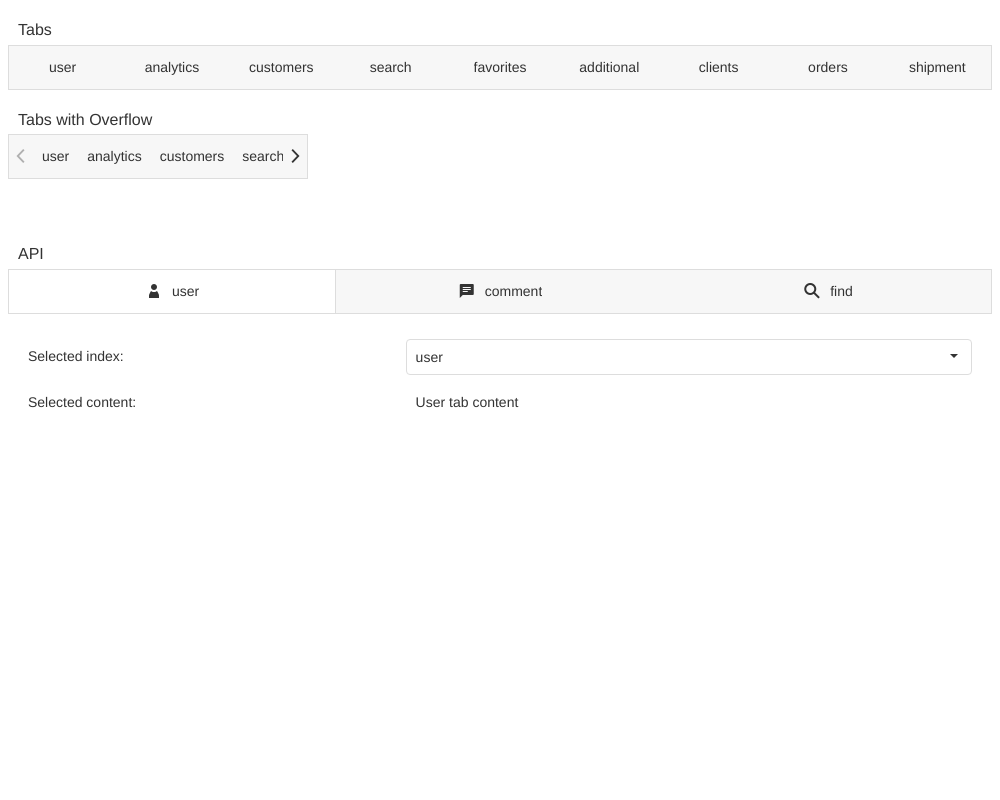
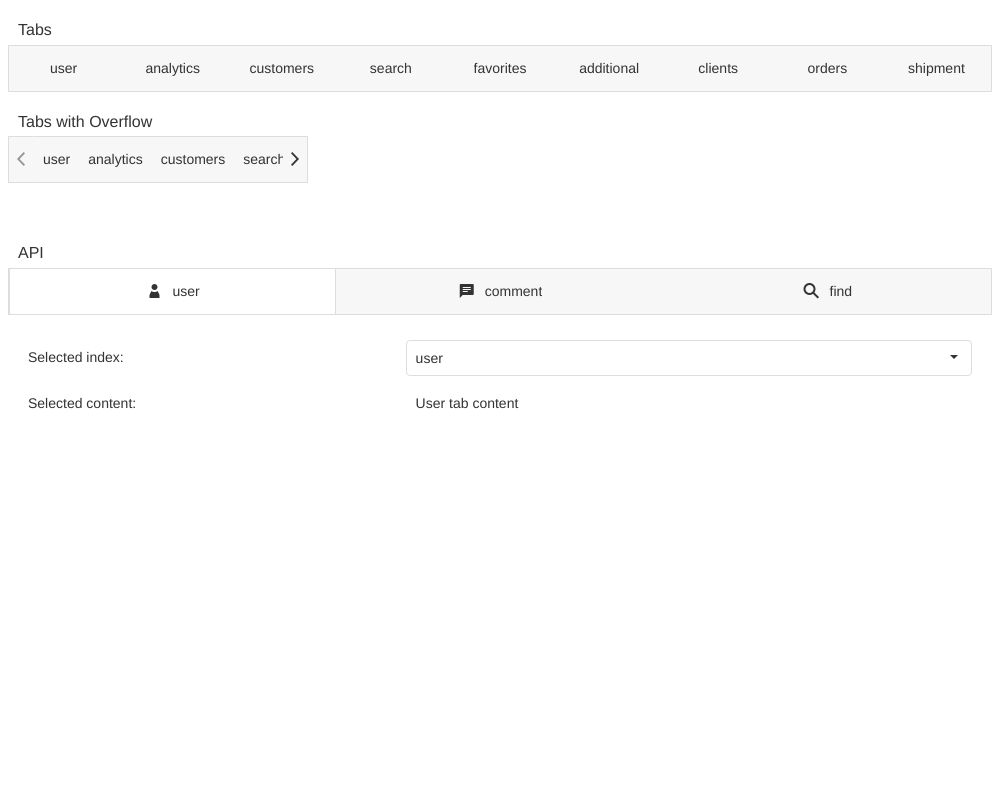
Tabs/TabPanel: Fix tab styling && Update etalon (#2740)

diff --git a/MVCDemos/Content/DemosStyles/TabPanel/SortableClosableTabs.css b/MVCDemos/Content/DemosStyles/TabPanel/SortableClosableTabs.css
@@ -21,14 +21,6 @@
     padding-left: 20px;
 }
 
-.dx-tab-content .dx-icon-close {
-    display: inline-block;
-    opacity: 0.6;
-    margin-right: 0;
-    margin-left: 7px;
-    font-size: 18px;
-}
-
 .dx-sortable-dragging .dx-tab {
     box-sizing: border-box;
     text-align: center;
@@ -53,20 +45,30 @@
     white-space: normal;
 }
 
-.dx-theme-generic .dx-tabs-wrapper .dx-tab {
+.dx-theme-generic .dx-tabs-wrapper .dx-item.dx-tab {
     max-width: fit-content;
     padding-left: 14px;
     padding-right: 9px;
     line-height: 1.618;
 }
 
-.dx-theme-generic .dx-icon-close {
+.dx-tabpanel .dx-tab .dx-icon.dx-icon-close {
+    display: inline-block;
+    margin-right: 0;
+    margin-left: 7px;
+    opacity: 0.6;
+}
+  
+.dx-theme-generic .dx-tabpanel .dx-tab .dx-icon.dx-icon-close {
     font-size: 15px;
 }
 
-.dx-theme-material .dx-tab-content span {
-    vertical-align: middle;
-    line-height: initial;
+.dx-theme-material .dx-tabpanel .dx-tab .dx-icon.dx-icon-close {
+    font-size: 18px;
+}
+
+.dx-theme-material .dx-tab-content {
+    flex-direction: row;
 }
 
 .dx-theme-material .employeeNotes {

diff --git a/NetCoreDemos/wwwroot/css/DemosStyles/TabPanel/SortableClosableTabs.css b/NetCoreDemos/wwwroot/css/DemosStyles/TabPanel/SortableClosableTabs.css
@@ -21,14 +21,6 @@
     padding-left: 20px;
 }
 
-.dx-tab-content .dx-icon-close {
-    display: inline-block;
-    opacity: 0.6;
-    margin-right: 0;
-    margin-left: 7px;
-    font-size: 18px;
-}
-
 .dx-sortable-dragging .dx-tab {
     box-sizing: border-box;
     text-align: center;
@@ -53,20 +45,30 @@
     white-space: normal;
 }
 
-.dx-theme-generic .dx-tabs-wrapper .dx-tab {
+.dx-theme-generic .dx-tabs-wrapper .dx-item.dx-tab {
     max-width: fit-content;
     padding-left: 14px;
     padding-right: 9px;
     line-height: 1.618;
 }
 
-.dx-theme-generic .dx-icon-close {
+.dx-tabpanel .dx-tab .dx-icon.dx-icon-close {
+    display: inline-block;
+    margin-right: 0;
+    margin-left: 7px;
+    opacity: 0.6;
+}
+  
+.dx-theme-generic .dx-tabpanel .dx-tab .dx-icon.dx-icon-close {
     font-size: 15px;
 }
 
-.dx-theme-material .dx-tab-content span {
-    vertical-align: middle;
-    line-height: initial;
+.dx-theme-material .dx-tabpanel .dx-tab .dx-icon.dx-icon-close {
+    font-size: 18px;
+}
+
+.dx-theme-material .dx-tab-content {
+    flex-direction: row;
 }
 
 .dx-theme-material .employeeNotes {

diff --git a/JSDemos/Demos/TabPanel/SortableClosableTabs/jQuery/styles.css b/JSDemos/Demos/TabPanel/SortableClosableTabs/jQuery/styles.css
@@ -9,14 +9,6 @@
   padding-left: 20px;
 }
 
-.dx-tab-content .dx-icon-close {
-  display: inline-block;
-  opacity: 0.6;
-  margin-right: 0;
-  margin-left: 7px;
-  font-size: 18px;
-}
-
 .dx-sortable-dragging .dx-tab {
   box-sizing: border-box;
   text-align: center;
@@ -53,20 +45,30 @@
   white-space: normal;
 }
 
-.dx-theme-generic .dx-tabs-wrapper .dx-tab {
+.dx-theme-generic .dx-tabs-wrapper .dx-item.dx-tab {
   max-width: fit-content;
   padding-left: 14px;
   padding-right: 9px;
   line-height: 1.618;
 }
 
-.dx-theme-generic .dx-icon-close {
+.dx-tabpanel .dx-tab .dx-icon.dx-icon-close {
+  display: inline-block;
+  margin-right: 0;
+  margin-left: 7px;
+  opacity: 0.6;
+}
+
+.dx-theme-generic .dx-tabpanel .dx-tab .dx-icon.dx-icon-close {
   font-size: 15px;
 }
 
-.dx-theme-material .dx-tab-content span {
-  vertical-align: middle;
-  line-height: initial;
+.dx-theme-material .dx-tabpanel .dx-tab .dx-icon.dx-icon-close {
+  font-size: 18px;
+}
+
+.dx-theme-material .dx-tab-content {
+  flex-direction: row;
 }
 
 .dx-theme-material .employeeNotes {

diff --git a/JSDemos/Demos/TabPanel/SortableClosableTabs/Angular/app/app.component.css b/JSDemos/Demos/TabPanel/SortableClosableTabs/Angular/app/app.component.css
@@ -9,14 +9,6 @@
   padding-left: 20px;
 }
 
-::ng-deep .dx-tab-content .dx-icon.dx-icon-close {
-  display: inline-block;
-  opacity: 0.6;
-  margin-right: 0;
-  margin-left: 7px;
-  font-size: 18px;
-}
-
 ::ng-deep .dx-sortable-dragging .dx-tab {
   box-sizing: border-box;
   text-align: center;
@@ -60,13 +52,23 @@
   line-height: 1.618;
 }
 
-::ng-deep .dx-theme-generic .dx-icon.dx-icon-close {
+::ng-deep .dx-tabpanel .dx-tab .dx-icon.dx-icon-close {
+  display: inline-block;
+  margin-right: 0;
+  margin-left: 7px;
+  opacity: 0.6;
+}
+
+::ng-deep .dx-theme-generic .dx-tabpanel .dx-tab .dx-icon.dx-icon-close {
   font-size: 15px;
 }
 
-::ng-deep .dx-theme-material .dx-tab-content span {
-  vertical-align: middle;
-  line-height: initial;
+::ng-deep .dx-theme-material .dx-tabpanel .dx-tab .dx-icon.dx-icon-close {
+  font-size: 18px;
+}
+
+::ng-deep .dx-theme-material .dx-tab-content {
+  flex-direction: row;
 }
 
 ::ng-deep .dx-theme-material .employeeNotes {

diff --git a/JSDemos/Demos/TabPanel/SortableClosableTabs/Vue/App.vue b/JSDemos/Demos/TabPanel/SortableClosableTabs/Vue/App.vue
@@ -123,14 +123,6 @@ export default {
   padding-left: 20px;
 }
 
-.dx-tab-content .dx-icon.dx-icon-close {
-  display: inline-block;
-  opacity: 0.6;
-  margin-right: 0;
-  margin-left: 7px;
-  font-size: 18px;
-}
-
 .dx-sortable-dragging .dx-tab {
   box-sizing: border-box;
   text-align: center;
@@ -156,13 +148,23 @@ export default {
   line-height: 1.618;
 }
 
-.dx-theme-generic .dx-icon.dx-icon-close {
+.dx-tabpanel .dx-tab .dx-icon.dx-icon-close {
+  display: inline-block;
+  margin-right: 0;
+  margin-left: 7px;
+  opacity: 0.6;
+}
+
+.dx-theme-generic .dx-tabpanel .dx-tab .dx-icon.dx-icon-close {
   font-size: 15px;
 }
 
-.dx-theme-material .dx-tab-content span {
-  vertical-align: middle;
-  line-height: initial;
+.dx-theme-material .dx-tabpanel .dx-tab .dx-icon.dx-icon-close {
+  font-size: 18px;
+}
+
+.dx-theme-material .dx-tab-content {
+  flex-direction: row;
 }
 
 .dx-theme-material .employeeNotes {

diff --git a/JSDemos/Demos/TabPanel/SortableClosableTabs/React/styles.css b/JSDemos/Demos/TabPanel/SortableClosableTabs/React/styles.css
@@ -9,14 +9,6 @@
   padding-left: 20px;
 }
 
-.dx-tab-content .dx-icon.dx-icon-close {
-  display: inline-block;
-  opacity: 0.6;
-  margin-right: 0;
-  margin-left: 7px;
-  font-size: 18px;
-}
-
 .dx-sortable-dragging .dx-tab {
   box-sizing: border-box;
   text-align: center;
@@ -60,13 +52,23 @@
   line-height: 1.618;
 }
 
-.dx-theme-generic .dx-icon.dx-icon-close {
+.dx-tabpanel .dx-tab .dx-icon.dx-icon-close {
+  display: inline-block;
+  margin-right: 0;
+  margin-left: 7px;
+  opacity: 0.6;
+}
+
+.dx-theme-generic .dx-tabpanel .dx-tab .dx-icon.dx-icon-close {
   font-size: 15px;
 }
 
-.dx-theme-material .dx-tab-content span {
-  vertical-align: middle;
-  line-height: initial;
+.dx-theme-material .dx-tabpanel .dx-tab .dx-icon.dx-icon-close {
+  font-size: 18px;
+}
+
+.dx-theme-material .dx-tab-content {
+  flex-direction: row;
 }
 
 .dx-theme-material .employeeNotes {
